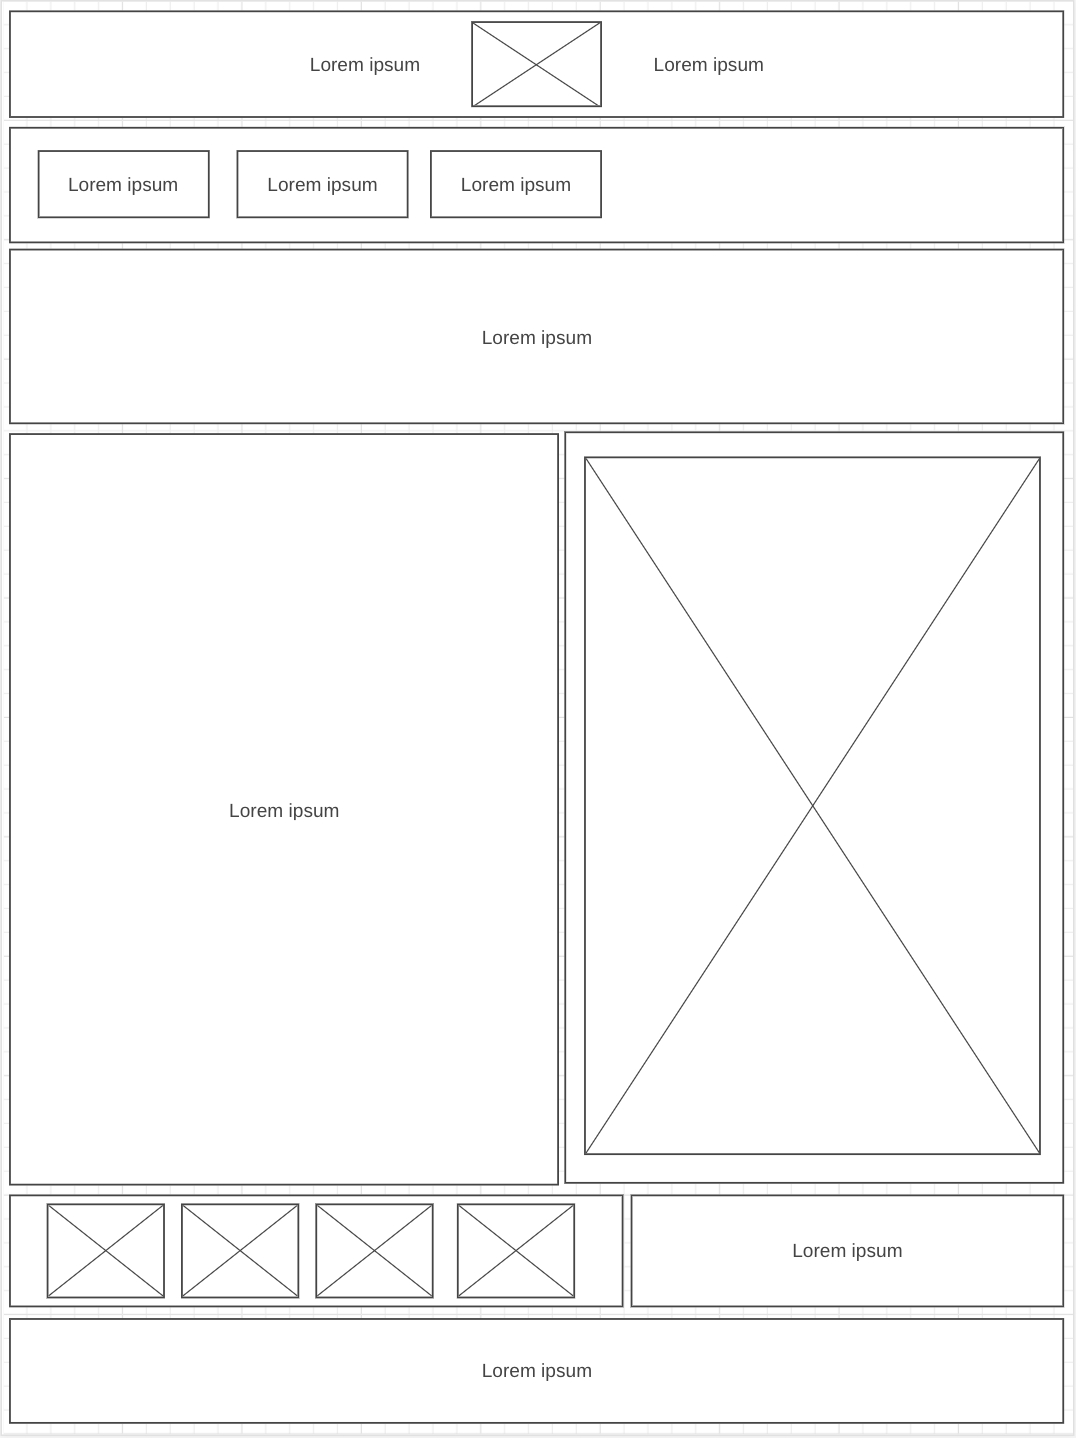
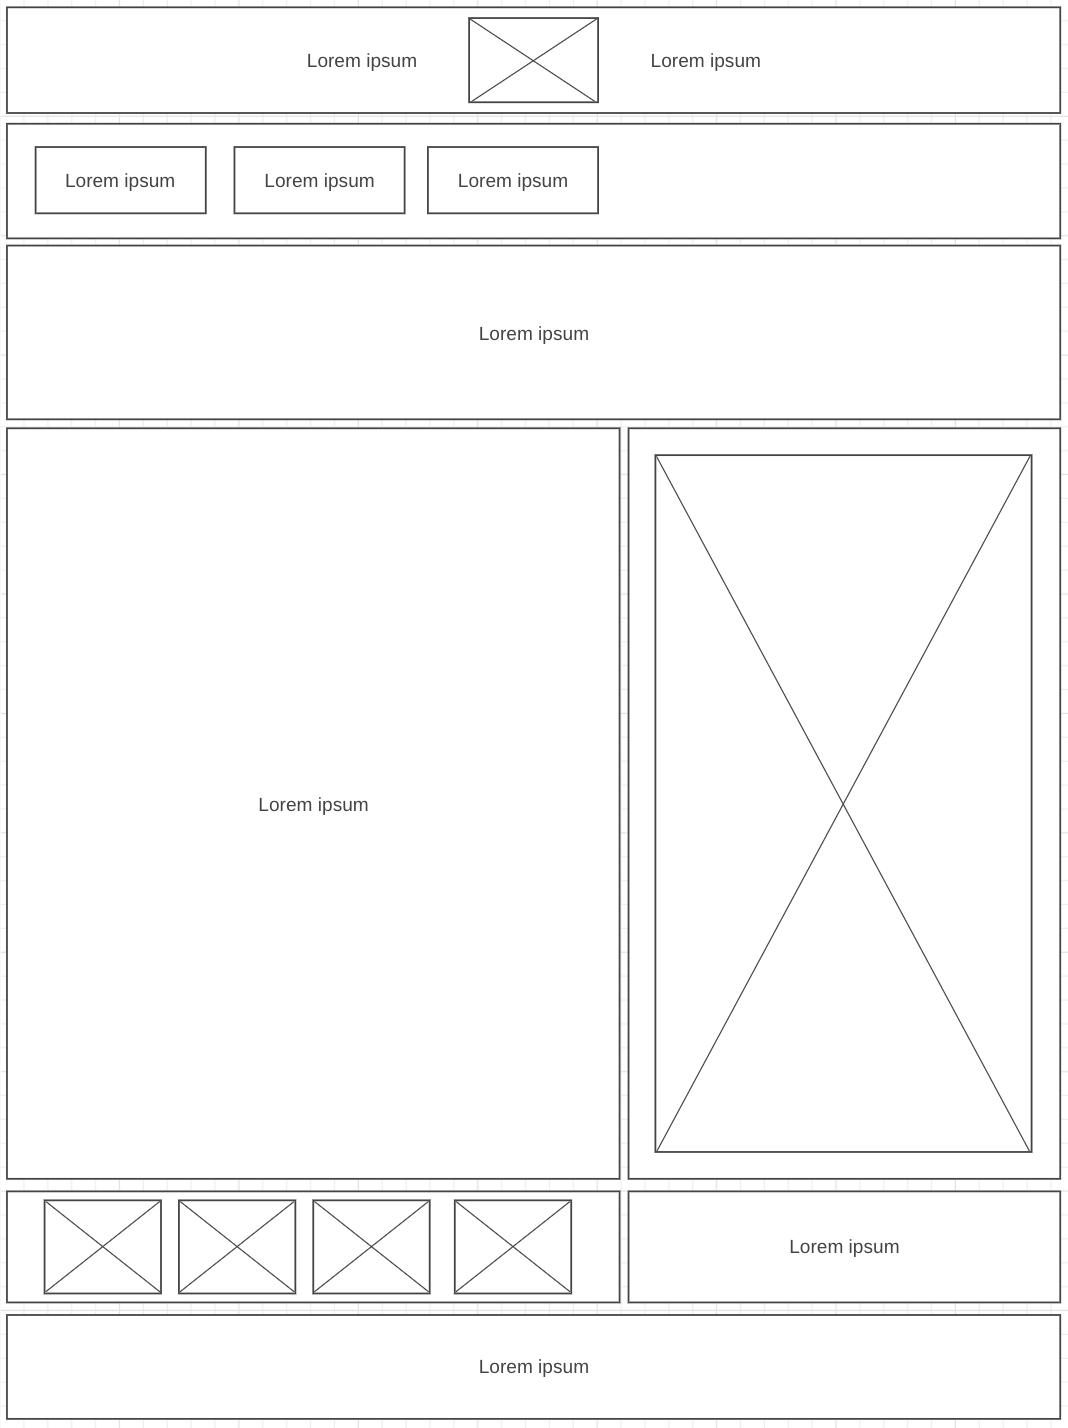
cambios

diff --git a/analina/contact.html b/analina/contact.html
@@ -40,41 +40,47 @@
         <h4>“Every experience God gives us, every person He puts in our lives, is the perfect preparation for the future only He can see.”</h4>
       </div>
       <div class="contact-element-2">
-        <form action="/my-handling-form-page" method="post">
-          <ul>
-            <li>
-              <label for="name">Name:</label>
-              <input type="text" id="name" name="user_name">
-            </li>
-            <li>
-              <label for="mail">E-mail:</label>
-              <input type="email" id="mail" name="user_mail">
-            </li>
-            <li>
-              <label for="msg">Message:</label>
-              <textarea id="msg" name="user_message"></textarea>
-            </li>
-            <li class="button">
-              <button type="submit">Send your message</button>
-            </li>
-          </ul> 
+        <form action="/action_page.php">
+          <div class="row">
+            <div class="col-25">
+              <label for="fname">First Name</label>
+            </div>
+            <div class="col-75">
+              <input type="text" id="fname" name="firstname" placeholder="Your name..">
+            </div>
+          </div>
+          <div class="row">
+            <div class="col-25">
+              <label for="lname">Last Name</label>
+            </div>
+            <div class="col-75">
+              <input type="text" id="lname" name="lastname" placeholder="Your last name..">
+            </div>
+          </div>
+          <div class="row">
+            <div class="col-25">
+              <label for="country">Country</label>
+            </div>
+            <div class="col-75">
+              <select id="country" name="country">
+                <option value="australia">Australia</option>
+                <option value="canada">Canada</option>
+                <option value="usa">USA</option>
+              </select>
+            </div>
+          </div>
+          <div class="row">
+            <div class="col-25">
+              <label for="subject">Subject</label>
+            </div>
+            <div class="col-75">
+              <textarea id="subject" name="subject" placeholder="Write something.." style="height:200px"></textarea>
+            </div>
+          </div>
+          <div class="row">
+            <input type="submit" value="Submit">
+          </div>
         </form>
-        <div id="feedback"></div>
-        <script>
-          // get the feedback div element so we can do something with it.
-          const feedbackElement = document.getElementById('feedback');
-          // get the form so we can read what was entered in it.
-          const formElement = document.forms[0];
-          // add a 'listener' to wait for a submission of our form. When that happens run the code below.
-          formElement.addEventListener('submit', function(e) {
-            // stop the form from doing the default action.
-            e.preventDefault();
-            // set the contents of our feedback element to a message letting the user know the form was submitted successfully. Notice that we pull the name that was entered in the form to personalize the message!
-            feedbackElement.innerHTML = 'Hello '+ formElement.user_name.value +'!Thank you for your message 🙂. We will get back with you as soon as possible!';
-            // make the feedback element visible.
-            feedbackElement.style.display = "block";
-          });
-        </script>
       </div>
       <div class="contact-element-3">
           <img class="carta" src="images/carta.png" alt="carta">

diff --git a/analina/styles/styles.css b/analina/styles/styles.css
@@ -80,6 +80,7 @@ body {
 /*........................... Footer .................................*/
 .footer-grid {
     display: grid;  
+    grid-template-columns: 60% 40%;
 }
 .footer1 {
     grid-column: 1/2;
@@ -302,6 +303,7 @@ main a:hover {
 /*........................ Contact Page Styles .............................*/
 .contact-grid {
     display: grid;
+    grid-template-columns: 60% 40%;
 }
 .contact-element-1 {
     grid-column: 1/3;
@@ -324,70 +326,61 @@ main a:hover {
     width: 40%;
     margin: 10%;
 }
-/* Feedback */
-#feedback {
-    padding: 10px;
-    text-align: center;
-    /* make this element invisible until we are ready for it */
-    display: none;
-    color: var(--secondary-color);    
-}
-.moveDown {
-    margin-top: 3em;
-}
-/* Estilos del formulario de contacto */
-form {
-    /* Center the form on the page */
-    margin: 0 auto;
-    width: 300px;
-    /* Form outline */
-    padding: 1em;
-    border: 1px solid var(--secondary-color);
-    border-radius: 1em;
+form * {
+    box-sizing: border-box;
+    text-align: left;
     color: var(--secondary-color);
 } 
-ul {
-    list-style: none;
-    padding: 0;
-    margin: 0;
-}
-form li + li {
-    margin-top: 1em;
+input[type=text], select, textarea {
+    width: 100%;
+    padding: 12px;
+    border: 1px solid var(--secondary-color);
+    border-radius: 4px;
+    resize: vertical;
 }  
 label {
-    /* Uniform size & alignment */
+    padding: 12px 12px 12px 0;
     display: inline-block;
-    width: 90px;
-    text-align: left;
+} 
+input[type=submit] {
+    background-color: var(--secondary-color);
+    color: var(--primary-color);
+    padding: 12px 20px;
+    border: none;
+    border-radius: 4px;
+    cursor: pointer;
+    float: right;
+} 
+input[type=submit]:hover {
+    background-color: var(--secondary-color);
+} 
+.container {
+    border-radius: 5px;
+    background-color: var(--primary-color);
+    padding: 20px;
 }  
-input, textarea {
-    /* To make sure that all text fields have the same font settings
-       By default, textareas have a monospace font */
-    font: 1em;
-    /* Uniform text field size */
-    width: 300px;
-    box-sizing: border-box;
-    /* Match form field borders */
-    border: 1px solid var(--secondary-color);
-}
-input:focus, textarea:focus {
-    /* Additional highlight for focused elements */
-    border-color: var(--secondary-color);
-}
-textarea {
-    /* Align multiline text fields with their labels */
-    vertical-align: top;
-    /* Provide space to type some text */
-    height: 5em;
+.col-25 {
+    float: left;
+    width: 25%;
+    margin-top: 6px;
 } 
-.button {
-    /* Align buttons with the text fields */
-    padding-left: 90px; /* same size as the label elements */
-} 
-button {
-    /* This extra margin represent roughly the same space as the space
-       between the labels and their text fields */
-    margin-left: 0.5em;
+.col-75 {
+    float: left;
+    width: 75%;
+    margin-top: 6px;
+}  
+/* Clear floats after the columns */
+.row:after {
+    content: "";
+    display: table;
+    clear: both;
+}
+/* Responsive layout - when the screen is less than 600px wide, make the two columns stack on top of each other instead of next to each other */
+@media screen and (max-width: 600px) {
+    .col-25, .col-75, input[type=submit] {
+      width: 100%;
+      margin-top: 0;
+    }
 }
 @media screen and (max-width: 600px) {
     /* When the screen is less than 600 pixels wide, hide all links, except for the first one ("Home"). Show the link that contains should open and close the topnav (.icon) */
